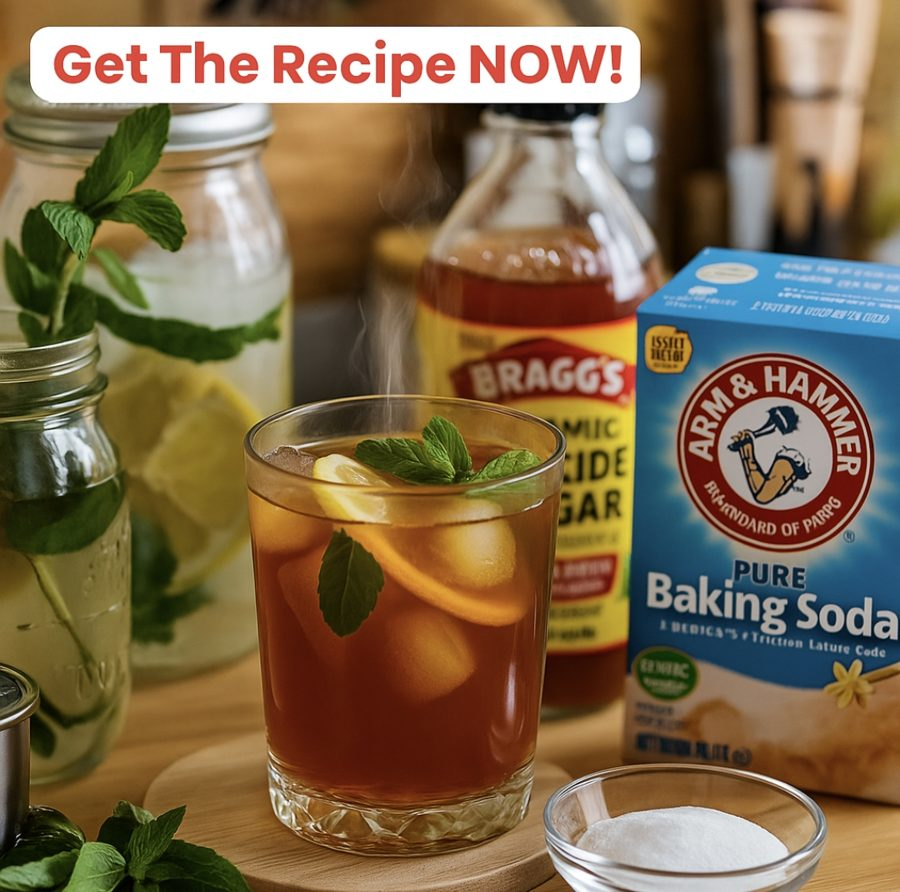
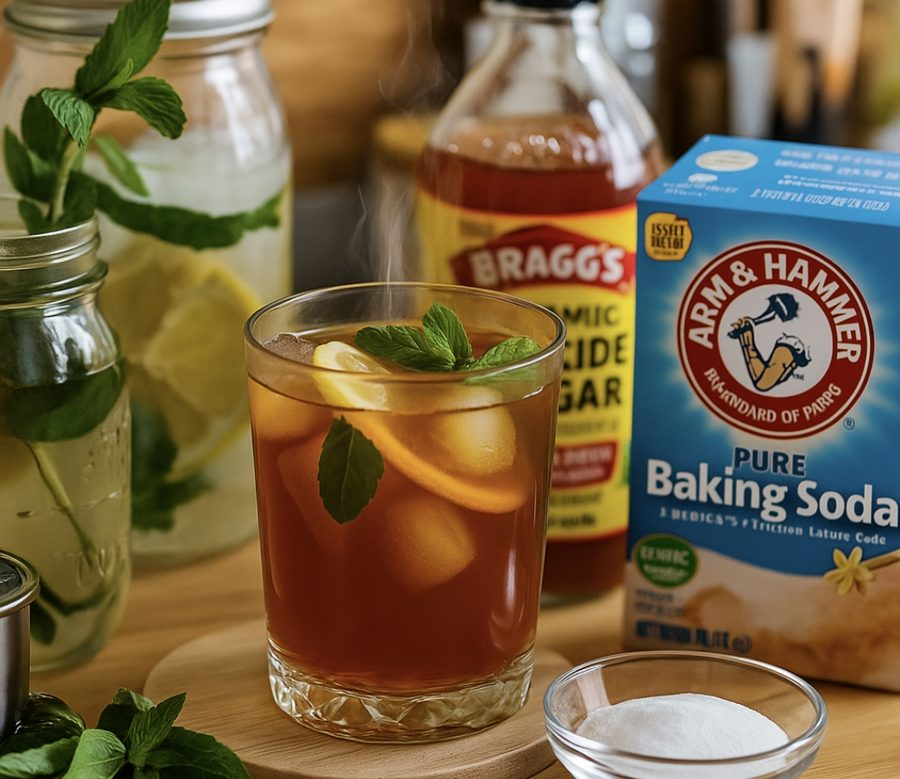
Add Costa Rican iced tea recipe article (#20)
- New standalone page at /recipes/costa-rican-iced-tea: a genuine
  first-person recipe post in Miranda's voice, with her real portrait,
  an honest recipe, and general/true framing (no medical or weight-loss
  claims) -- meant to stand on its own as legitimate editorial content,
  not as a review-bait page
- Only one outbound link on the page, in a 'ready-made blend'
  recommendation list alongside two real, unaffiliated tea brands --
  routed through /review/all-day-slimming-tea/go/recipe-article so it
  still lands on that page's own compliant pre-lander first
- Replaced the tea hero image with a version cropped to remove the
  baked-in 'Get The Recipe NOW!' ad banner, so it reads as an authentic
  personal photo rather than ad creative (also fixes the same image
  used on the all-day-slimming-tea page)

diff --git a/client/src/pages/CostaRicanIcedTea.tsx b/client/src/pages/CostaRicanIcedTea.tsx
@@ -1,0 +1,162 @@
+/**
+ * Costa Rican-Style Iced Tea — Recipe Article
+ * Authored by Miranda Rodríguez
+ * Route: /recipes/costa-rican-iced-tea
+ *
+ * Standalone editorial content, written in Miranda's own voice. The only
+ * outbound link on the page is the "All Day Slimming Tea" mention at the
+ * very end, routed through /review/all-day-slimming-tea/go/recipe-article
+ * so it still lands on that page's own compliant pre-lander first, rather
+ * than jumping straight to the offer.
+ */
+
+import Header from "@/components/Header";
+import Footer from "@/components/Footer";
+
+export default function CostaRicanIcedTea() {
+  return (
+    <div className="min-h-screen flex flex-col bg-background">
+      <Header />
+
+      <main className="flex-1">
+        <article className="container max-w-2xl py-16">
+          <p className="text-primary font-semibold text-xs uppercase tracking-widest mb-4">
+            Recipes &amp; Wellness
+          </p>
+
+          <h1 className="text-4xl md:text-5xl font-bold text-foreground leading-tight mb-8">
+            I Tried The Costa Rican Iced Tea Recipe Everyone's Sharing —
+            Here's What I Thought
+          </h1>
+
+          {/* Bio intro */}
+          <div className="flex items-center gap-4 mb-8 pb-8 border-b border-border">
+            <img
+              src="/images/miranda-portrait.jpg"
+              alt="Miranda Rodríguez"
+              className="w-16 h-16 rounded-full object-cover flex-shrink-0"
+            />
+            <p className="text-foreground/70 text-[0.9375rem] leading-relaxed">
+              Hi, I'm Miranda — 40, based in Austin, and a bit of a tea person. I've been
+              collecting recipes like this one for years, mostly because I got tired of
+              choosing between plain water and another cup of coffee every afternoon.
+            </p>
+          </div>
+
+          <img
+            src="/images/tea/hero_iced_tea.jpg"
+            alt="Herbal iced tea with mint and lemon"
+            className="w-full rounded-2xl shadow-lg mb-8"
+          />
+
+          <div className="space-y-5 text-foreground/80 text-[1.0625rem] leading-relaxed">
+            <p>
+              A few weeks ago, a version of this recipe kept showing up in my feed — mint,
+              lemon, and a splash of apple cider vinegar, brewed into a simple iced tea. It's
+              apparently a home-kitchen staple in parts of Costa Rica, passed around more as a
+              refreshing afternoon habit than anything fancy. I was curious enough to actually
+              make it, so I did — for about a week, most afternoons.
+            </p>
+
+            <p>
+              I'll say upfront: this is not a miracle drink, and I'm not going to pretend it is.
+              It's an herbal iced tea. What I can say honestly is that it's genuinely pleasant,
+              easy to make with things most people already have in the kitchen, and it became a
+              nice ritual to have around 3pm instead of reaching for another coffee.
+            </p>
+
+            <img
+              src="/images/tea/glass_closeup.jpg"
+              alt="Close-up of iced tea with mint and lemon"
+              className="w-full rounded-2xl shadow-lg my-8"
+            />
+
+            <h2 className="text-2xl font-bold text-foreground pt-4">The Recipe</h2>
+
+            <div className="bg-card border border-border rounded-xl p-6 space-y-4">
+              <div>
+                <h3 className="font-semibold text-foreground mb-2">Ingredients</h3>
+                <ul className="list-disc list-inside space-y-1 text-foreground/80">
+                  <li>1 cup brewed black or green tea, cooled</li>
+                  <li>1 tbsp apple cider vinegar</li>
+                  <li>Juice of half a lemon</li>
+                  <li>A small handful of fresh mint leaves</li>
+                  <li>Ice</li>
+                  <li>Optional: a pinch of baking soda to soften the tartness</li>
+                </ul>
+              </div>
+              <div>
+                <h3 className="font-semibold text-foreground mb-2">Steps</h3>
+                <ol className="list-decimal list-inside space-y-1 text-foreground/80">
+                  <li>Brew the tea and let it cool to room temperature.</li>
+                  <li>Stir in the apple cider vinegar and lemon juice.</li>
+                  <li>Bruise the mint leaves lightly between your fingers and drop them in.</li>
+                  <li>Pour over ice and let it sit a few minutes so the mint infuses.</li>
+                  <li>Taste — add the pinch of baking soda if it's too sharp for you.</li>
+                </ol>
+              </div>
+            </div>
+
+            <h2 className="text-2xl font-bold text-foreground pt-4">A Few Honest Notes</h2>
+
+            <p>
+              Apple cider vinegar and mint have both been kitchen staples for a very long time —
+              mint shows up constantly in recipes meant to be refreshing or easy on the stomach
+              after a meal, and apple cider vinegar has a long history as a pantry ingredient
+              people add to drinks and dressings for its tang. None of that makes this tea a
+              treatment for anything, and I'm not suggesting it is — I just think it's a genuinely
+              nice-tasting way to drink more water in the afternoon, which is a perfectly good
+              reason on its own.
+            </p>
+
+            <p>
+              If you have any health conditions, are pregnant or nursing, or take medication,
+              it's worth checking with a doctor before making vinegar a daily habit — it's acidic,
+              and that's worth being mindful of, same as with citrus.
+            </p>
+
+            <h2 className="text-2xl font-bold text-foreground pt-4">
+              If You'd Rather Try a Ready-Made Blend
+            </h2>
+
+            <p>
+              I like mixing my own, but I know not everyone wants to keep apple cider vinegar
+              and fresh mint on hand all week. A few readers asked what I'd recommend instead,
+              so here's what's actually in my own pantry rotation:
+            </p>
+
+            <ul className="list-disc list-inside space-y-2 text-foreground/80">
+              <li>
+                <span className="font-semibold text-foreground">Traditional Medicinals</span> —
+                a longtime favorite, easy to find at most grocery stores.
+              </li>
+              <li>
+                <span className="font-semibold text-foreground">Yogi Tea</span> — another
+                staple of mine, known for their wide range of herbal combinations.
+              </li>
+              <li>
+                <span className="font-semibold text-foreground">All Day Slimming Tea</span> —
+                a pre-made herbal blend a few of you asked about after I mentioned trying it;
+                it's a reasonable option if you'd rather skip the mixing altogether.{" "}
+                <a
+                  href="/review/all-day-slimming-tea/go/recipe-article"
+                  className="text-primary font-medium underline hover:no-underline"
+                >
+                  Take a look here
+                </a>
+                .
+              </li>
+            </ul>
+
+            <p>
+              If you try the homemade version, I'd genuinely love to hear how yours turns out —
+              and what you tweak to make it your own.
+            </p>
+          </div>
+        </article>
+      </main>
+
+      <Footer />
+    </div>
+  );
+}

diff --git a/client/src/App.tsx b/client/src/App.tsx
@@ -1,6 +1,7 @@
 import { Toaster } from "@/components/ui/sonner";
 import { TooltipProvider } from "@/components/ui/tooltip";
 import AllDaySlimmingTea from "@/pages/AllDaySlimmingTea";
+import CostaRicanIcedTea from "@/pages/CostaRicanIcedTea";
 import Dashboard from "@/pages/Dashboard";
 import MellaraMaxReview from "@/pages/MellaraMaxReview";
 import NotFound from "@/pages/NotFound";
@@ -23,6 +24,7 @@ function Router() {
       <Route path={"/review/vanotium-cutting-board/fr"} component={VanotiumReviewFr} />
       <Route path={"/review/mellaramax-pillow"} component={MellaraMaxReview} />
       <Route path={"/review/all-day-slimming-tea"} component={AllDaySlimmingTea} />
+      <Route path={"/recipes/costa-rican-iced-tea"} component={CostaRicanIcedTea} />
       <Route path={"/review/:productId"} component={ProductReview} />
       <Route path={"/dashboard"} component={Dashboard} />
       <Route path={"/404"} component={NotFound} />
